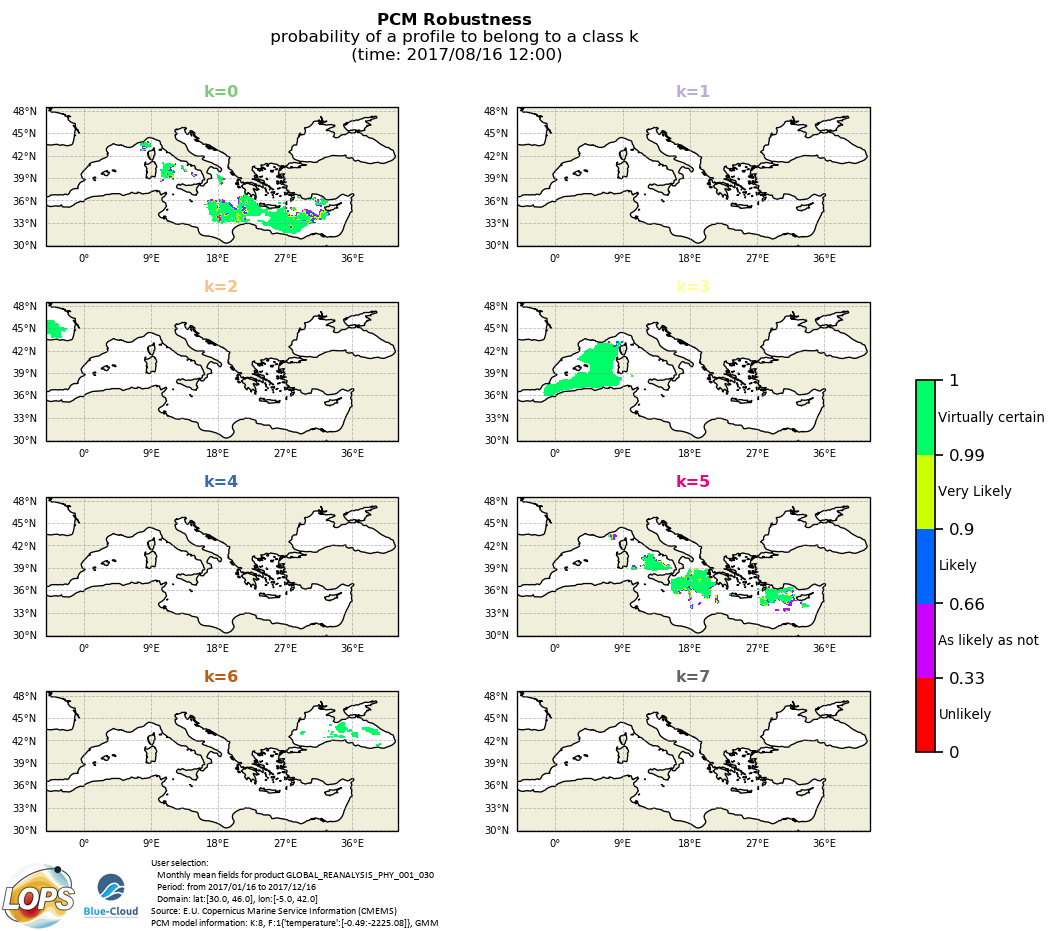
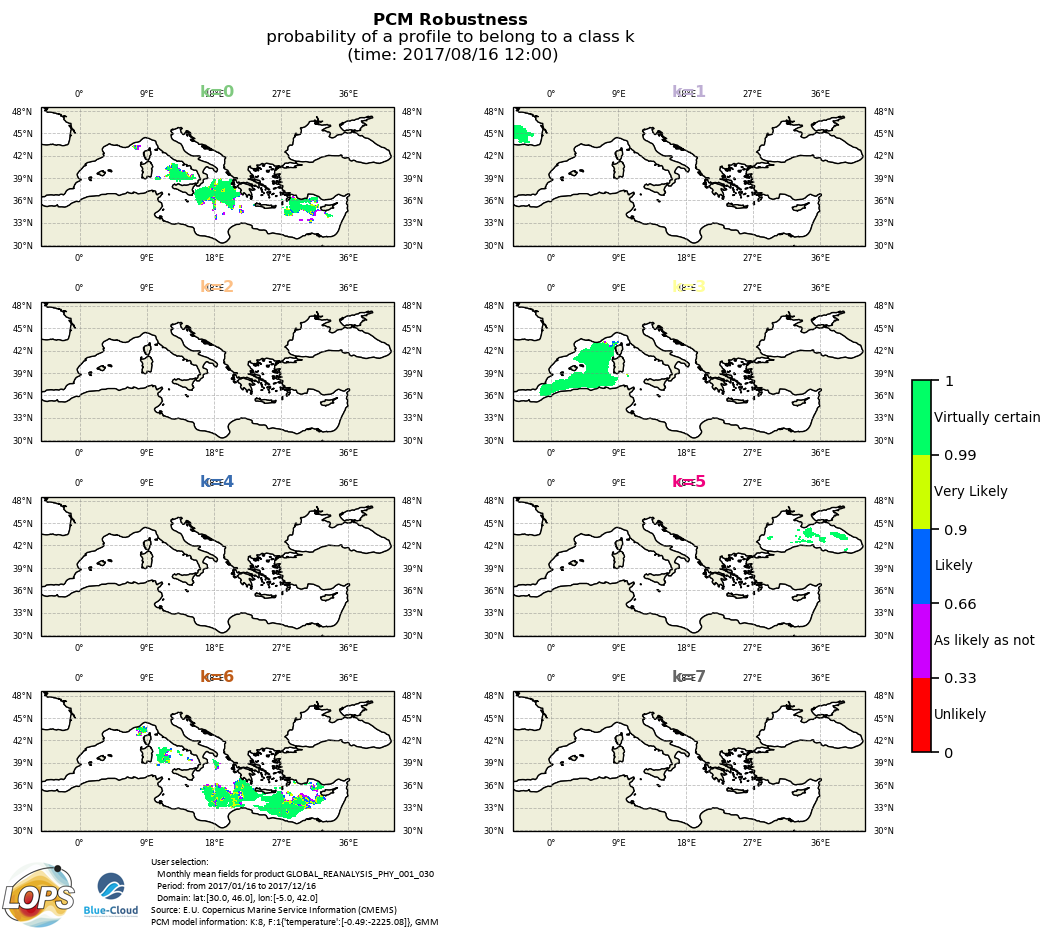
[update] avoid warning in Ocean Patterns robustness plot

diff --git a/OceanPatternsIndicator/Plotter.py b/OceanPatternsIndicator/Plotter.py
@@ -6,6 +6,7 @@ from cartopy.mpl.gridliner import LONGITUDE_FORMATTER, LATITUDE_FORMATTER
 import matplotlib as mpl
 import matplotlib.pyplot as plt
 import matplotlib.colors as mcolors
+import matplotlib.ticker as mticker
 import seaborn as sns
 
 import numpy as np
@@ -662,7 +663,21 @@ class Plotter:
                 sc = ax[k].pcolormesh(dsp[self.coords_dict.get('longitude')], dsp[self.coords_dict.get('latitude')], dsp['PCM_ROBUSTNESS_CAT'].where(dsp['PCM_LABELS'] == k),
                                       cmap=cmap, transform=proj, vmin=0, vmax=5)
 
-            self.m.plot.latlongrid(ax[k], fontsize=6, dx=lon_grid, dy=lat_grid)
+            #self.m.plot.latlongrid(ax[k], fontsize=6, dx=lon_grid, dy=lat_grid) deprecated
+            defaults = {'linewidth': .5, 'color': 'gray',
+                        'alpha': 0.5, 'linestyle': '--'}
+            gl = ax[k].gridlines(crs=ax[k].projection,
+                                 draw_labels=True, **defaults)
+            gl.xlocator = mticker.FixedLocator(
+                np.arange(-180, 180+1, lon_grid))
+            gl.ylocator = mticker.FixedLocator(np.arange(-90, 90+1,  lat_grid))
+            gl.xformatter = LONGITUDE_FORMATTER
+            gl.yformatter = LATITUDE_FORMATTER
+            gl.top_labels = False
+            gl.xlabel_style = {'fontsize': 5}
+            gl.right_labels = False
+            gl.ylabel_style = {'fontsize': 5}
+            ax[k].add_feature(land_feature, edgecolor='black')
             ax[k].add_feature(land_feature, edgecolor='black')
             #ax[k].set_title('k=%i' % k, color=kmap(k), fontweight='bold', x=1.05, y=0.84)
             ax[k].set_title('k=%i' % k, color=kmap(k), fontweight='bold')
